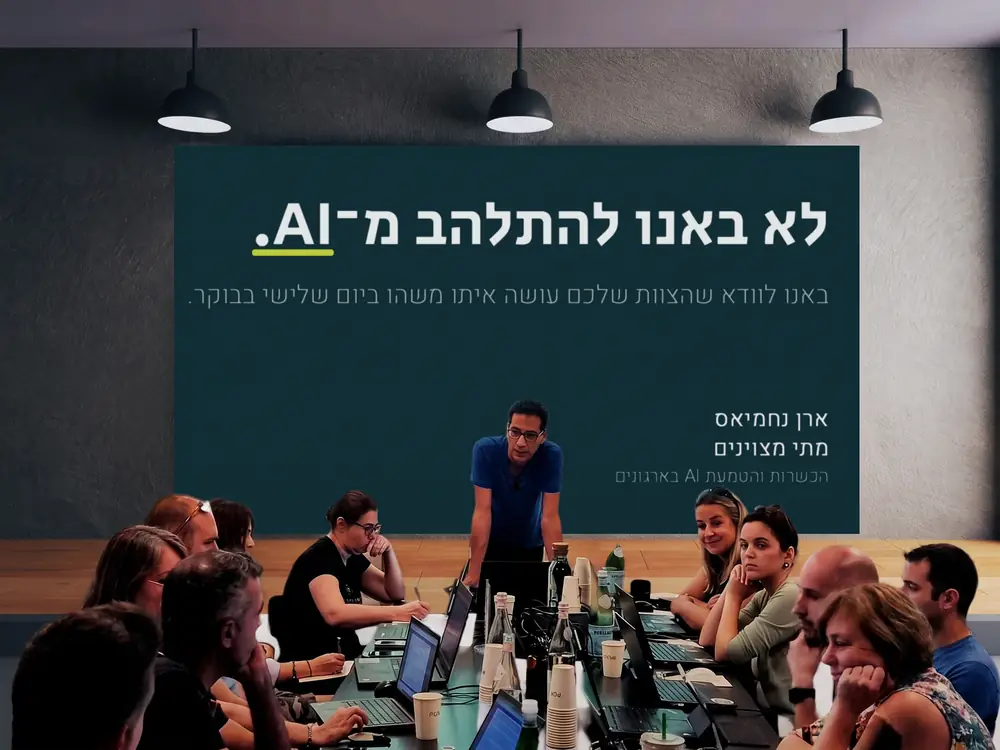
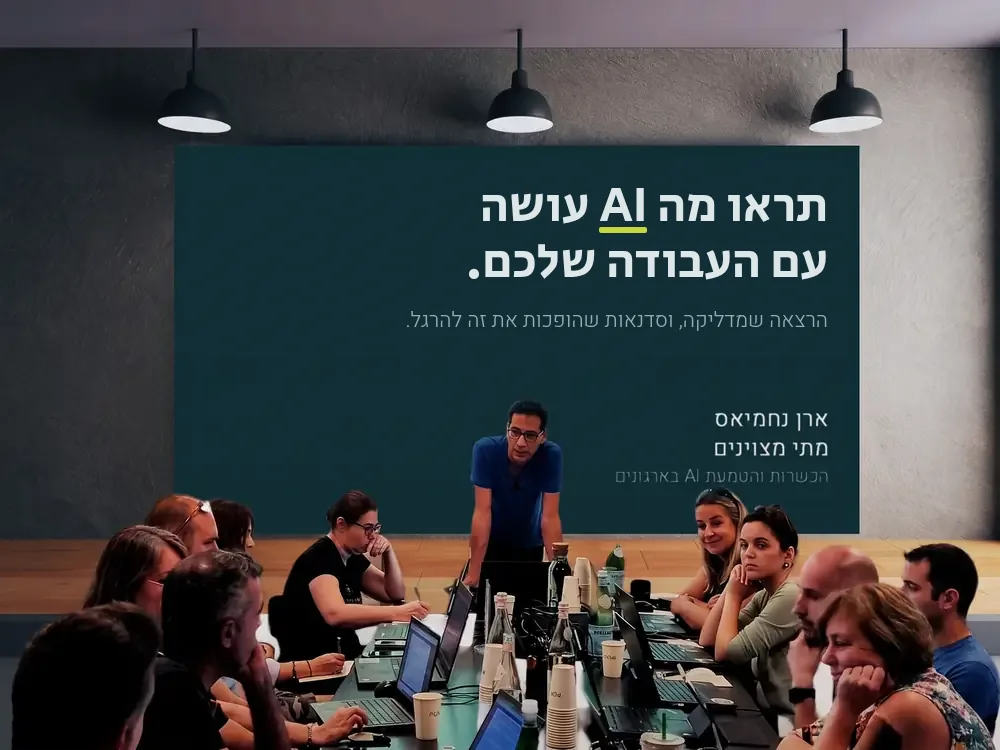
שפה מלהיבה, הרצאת התנעה כהתחלה, ובלי לו"ז בתוכניות
לפי הערות מנהלת משאבי אנוש:
- דף הבית: "תראו מה AI עושה עם העבודה שלכם" במקום "לא באנו להתלהב מ־AI", כולל השקף בתמונה
- הרצאת ההתנעה מוצגת כהתחלה שמדליקה, לא כמשהו שנכשל: המדרגות, התוכניות, השאלות, מייל הפתיחה
- ההדגמות החיות מ"מה כבר אפשר" עולות לדף הבית
- עמוד התוכניות: במה כל תוכנית נוגעת, בלי חלוקת זמנים. את הסדר קובעים עם הלקוח בשיחה
- מייל הפתיחה: Nexadapt במקום השם הישן
- רווח חסר בפס המסלול בדף הבית

Claude-Session: https://claude.ai/code/session_01X7QK9Hd7vXwrXZnXomPwg1

Changed region(s): [[0.217, 0.2453, 0.837, 0.4293]]

diff --git a/emails/mikhtav-peticha.html b/emails/mikhtav-peticha.html
@@ -17,13 +17,13 @@
 <body style="margin:0;background:#F1F4F4;font-family:'Segoe UI',Arial,sans-serif;color:#12313A;line-height:1.7;font-size:16px">
   <div style="max-width:560px;margin:0 auto;padding:32px 24px">
 
-    <div style="font-size:20px;font-weight:700;color:#0C2831;margin-bottom:24px">קפיצת מדרגה</div>
+    <div style="font-size:20px;font-weight:700;color:#0C2831;margin-bottom:24px">Nexadapt</div>
 
     <div style="background:#FFFFFF;border-radius:10px;padding:28px 26px">
       <p style="margin:0 0 16px">אישרתם, אז נתחיל מהדבר שהכי כדאי לדעת עלינו:</p>
 
       <p style="margin:0 0 16px;padding-inline-start:14px;border-inline-start:3px solid #0C2831;color:#0C2831">
-        אנחנו לא באים להתלהב מ־AI. אנחנו באים לוודא שהצוות שלכם עושה איתו משהו ביום שלישי בבוקר.
+        AI יכול לעשות עם העבודה שלכם הרבה יותר ממה שנדמה. אנחנו כאן כדי להראות לכם מה, ולעזור שזה יהפוך להרגל.
       </p>
 
       <p style="margin:0 0 16px">
